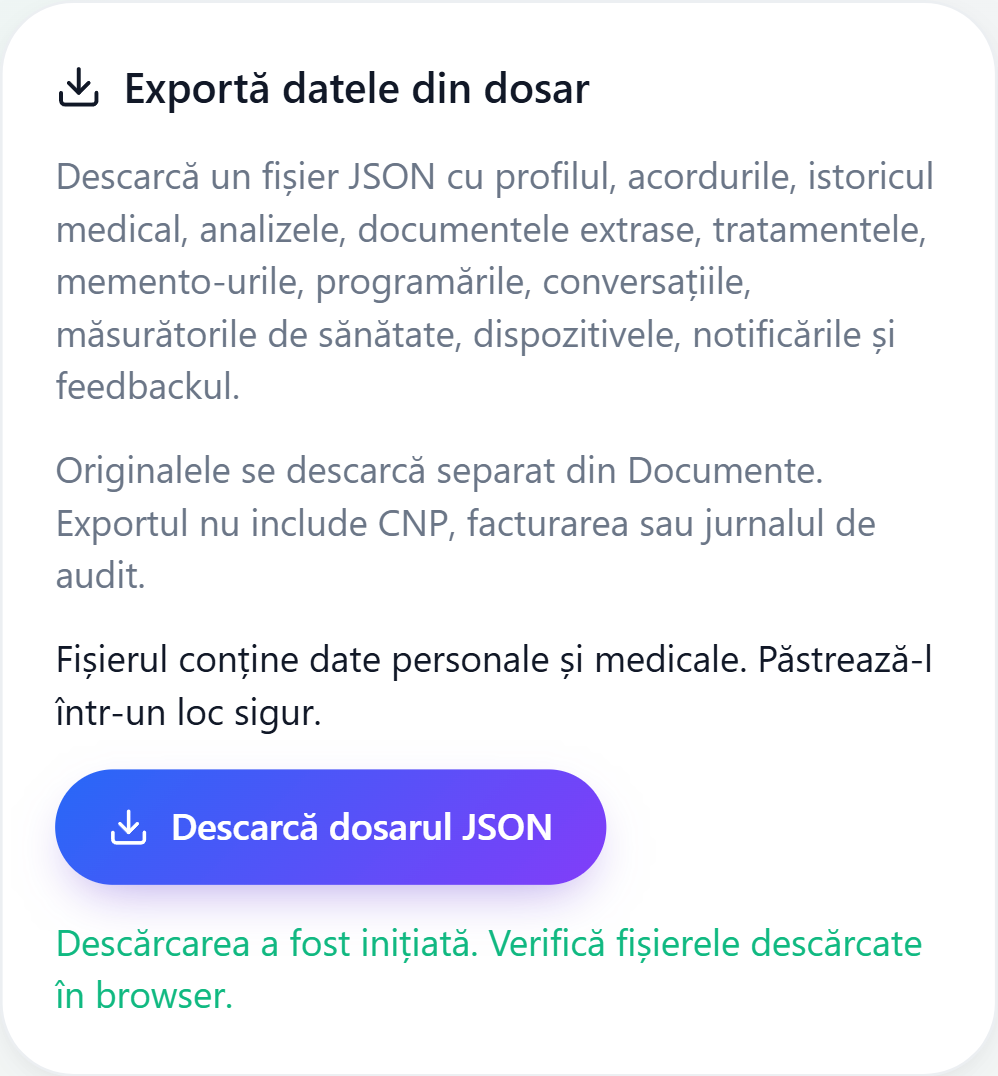
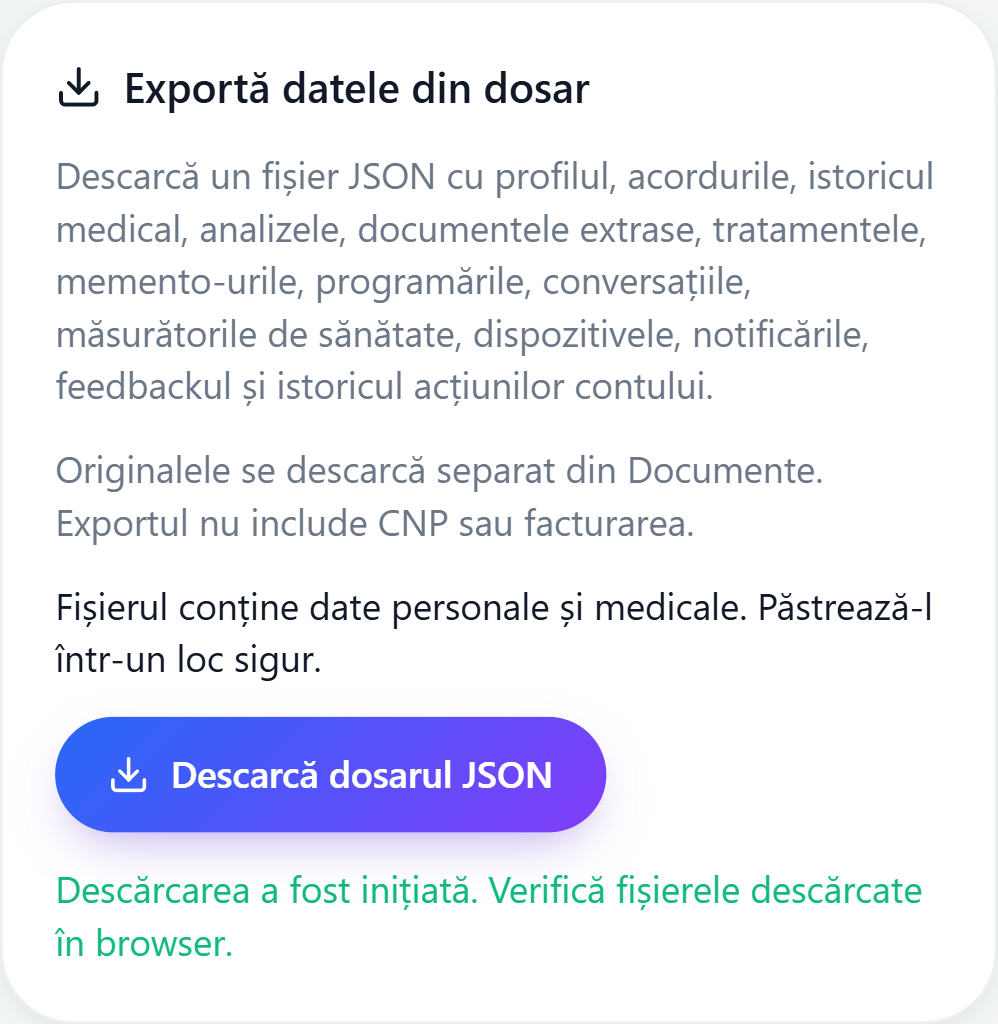
Export owner-scoped account audit events without internal details

diff --git a/frontend/src/components/data-export.tsx b/frontend/src/components/data-export.tsx
@@ -30,9 +30,9 @@ export function DataExport() {
       <Download size={18} aria-hidden="true" /> Exportă datele din dosar
     </h2>
     <p className="text-sm text-muted">Descarcă un fișier JSON cu profilul, acordurile, istoricul medical,
-      analizele, documentele extrase, tratamentele, memento-urile, programările, conversațiile, măsurătorile de sănătate, dispozitivele, notificările și feedbackul.</p>
+      analizele, documentele extrase, tratamentele, memento-urile, programările, conversațiile, măsurătorile de sănătate, dispozitivele, notificările, feedbackul și istoricul acțiunilor contului.</p>
     <p className="text-sm text-muted">Originalele se descarcă separat din Documente. Exportul nu include
-      CNP, facturarea sau jurnalul de audit.</p>
+      CNP sau facturarea.</p>
     <p className="text-sm">Fișierul conține date personale și medicale. Păstrează-l într-un loc sigur.</p>
     {native && <p className="text-sm text-muted">Alege destinația în dialogul sistemului. Copia temporară
       rămâne în memoria cache privată; copiile mai vechi de 24 de ore se curăță la următorul export.</p>}

diff --git a/backend/tests/test_gdpr.py b/backend/tests/test_gdpr.py
@@ -196,3 +196,39 @@ def test_account_export_without_patient_keeps_feedback(client, db_session):
     data = client.get(f"{API}/gdpr/export", headers=h).json()
     assert data["patient"] is None
     assert data["feedback"][0]["message"] == "Before profile creation"
+
+
+def test_export_audit_events_are_owner_scoped_without_internal_detail(client, db_session):
+    from datetime import UTC, datetime
+
+    from sqlalchemy import select
+
+    from app.models.user import AuditLog, User
+
+    owner = _auth(client, "audit-export-owner@example.com")
+    other = _auth(client, "audit-export-other@example.com")
+    for email, action in (("audit-export-owner@example.com", "owner_action"),
+                          ("audit-export-other@example.com", "other_action")):
+        user = db_session.scalar(select(User).where(User.email == email))
+        db_session.add(AuditLog(user_id=user.id, action=action, resource_type="patient",
+                               ip_address="192.0.2.1", user_agent="Synthetic browser",
+                               detail="internal-detail-must-stay-private",
+                               created_at=datetime.now(UTC)))
+    db_session.add(AuditLog(user_id=None, action="unattributed_action",
+                           created_at=datetime.now(UTC)))
+    db_session.commit()
+    for headers, present, absent in ((owner, "owner_action", "other_action"),
+                                     (other, "other_action", "owner_action")):
+        response = client.get(f"{API}/gdpr/export", headers=headers)
+        assert response.status_code == 200
+        events = response.json()["audit_events"]
+        assert present in [event["action"] for event in events]
+        assert absent not in [event["action"] for event in events]
+        assert "unattributed_action" not in response.text
+        assert "internal-detail-must-stay-private" not in response.text
+        assert all("detail" not in event for event in events)
+        assert any(event["action"] == "gdpr_export" for event in events)
+        own = next(event for event in events if event["action"] == present)
+        assert own["ip_address"] == "192.0.2.1"
+        assert own["user_agent"] == "Synthetic browser"
+        assert own["created_at"].endswith("+00:00")

diff --git a/backend/app/services/gdpr.py b/backend/app/services/gdpr.py
@@ -15,7 +15,7 @@ from app.models.medication import Medication
 from app.models.medication_reminder import MedicationReminder
 from app.models.notification import Notification
 from app.models.patient import Patient
-from app.models.user import Consent, User
+from app.models.user import AuditLog, Consent, User
 from app.services.storage_cleanup import enqueue
 
 
@@ -49,7 +49,7 @@ def export_user_data(db: Session, user: User) -> dict:
             "exported_at": _iso(datetime.now(UTC)),
             "original_files_included": False,
             "scope": "account_and_clinical_records",
-            "not_included": ["original_file_bytes", "cnp", "billing", "audit_logs",
+            "not_included": ["original_file_bytes", "cnp", "billing", "internal_audit_details",
                              "authentication_secrets"],
         },
         "account": {
@@ -84,6 +84,14 @@ def export_user_data(db: Session, user: User) -> dict:
         {**_record(f), "message": f.message, "rating": f.rating}
         for f in db.scalars(select(Feedback).where(Feedback.user_id == user.id)
                             .order_by(Feedback.id))
+    ]
+
+    data["audit_events"] = [
+        {"id": event.id, "action": event.action, "resource_type": event.resource_type,
+         "resource_id": event.resource_id, "ip_address": event.ip_address,
+         "user_agent": event.user_agent, "created_at": _iso(event.created_at)}
+        for event in db.scalars(select(AuditLog).where(AuditLog.user_id == user.id)
+                                .order_by(AuditLog.created_at, AuditLog.id))
     ]
 
     if patient is None:

diff --git a/docs/LOCAL-TEST.md b/docs/LOCAL-TEST.md
@@ -186,7 +186,7 @@ Fișierele temporare locale noi au un nume determinist derivat din cheia unică,
 
 ### Export JSON al dosarului — schema 2
 Exportul autentificat păstrează cheile existente și adaugă identificatori, datele creării/modificării, contacte de urgență, furnizorul vaccinului, legături ale istoricului, rezultate textuale și nivelul de verificare al analizelor, textul extras și metadatele documentului, perioade/note/instrucțiuni ale medicației și detalii ale programărilor. Orele sunt exportate cu fus orar; datele calendaristice rămân date. Metadatele JSON vechi nevalide sunt păstrate ca `unparsed_text`, fără să blocheze restul exportului.
-`export_metadata` declară explicit acoperirea. Originalele nu sunt încorporate în JSON; fiecare document oferă o cale de descărcare care necesită autentificarea proprietarului. CNP, facturarea și auditul nu sunt încă incluse. Măsurătorile de sănătate, dispozitivele raportate, notificările și feedbackul propriu sunt incluse. Tokenurile push și marcajele interne de livrare nu sunt exportate. Secretele de autentificare și cheile interne de stocare nu se exportă. Răspunsul are `Cache-Control: no-store`; fișierul descărcat rămâne în responsabilitatea utilizatorului. Acest increment nu reprezintă un pachet integral de portabilitate și nu certifică conformitatea juridică GDPR.
+`export_metadata` declară explicit acoperirea. Originalele nu sunt încorporate în JSON; fiecare document oferă o cale de descărcare care necesită autentificarea proprietarului. CNP și facturarea nu sunt încă incluse. Istoricul acțiunilor proprii este inclus în `audit_events`, cu dată, resursă, IP și user-agent; textul liber intern `detail` este exclus explicit din export. Evenimentele altor conturi sau fără proprietar nu sunt incluse. Măsurătorile de sănătate, dispozitivele raportate, notificările și feedbackul propriu sunt incluse. Tokenurile push și marcajele interne de livrare nu sunt exportate. Secretele de autentificare și cheile interne de stocare nu se exportă. Răspunsul are `Cache-Control: no-store`; fișierul descărcat rămâne în responsabilitatea utilizatorului. Acest increment nu reprezintă un pachet integral de portabilitate și nu certifică conformitatea juridică GDPR.
 
 
 Exportul JSON se descarcă din **Setări → Exportă datele din dosar → Descarcă dosarul JSON**. Butonul folosește sesiunea autentificată și mecanismul de reînnoire existent, afișează erori cu posibilitate de reîncercare și precizează că inițierea descărcării nu confirmă salvarea pe disc. Numele fișierului conține doar data, fără numele pacientului. Testele de browser verifică efectiv JSON-ul descărcat și identitatea contului pe cele trei dimensiuni de ecran. În buildurile native, exportul JSON folosește acum dialogul sistemului prin adaptorul Capacitor; validarea pe dispozitive fizice rămâne necesară. Browserul mobil și PWA folosesc descărcarea web.
